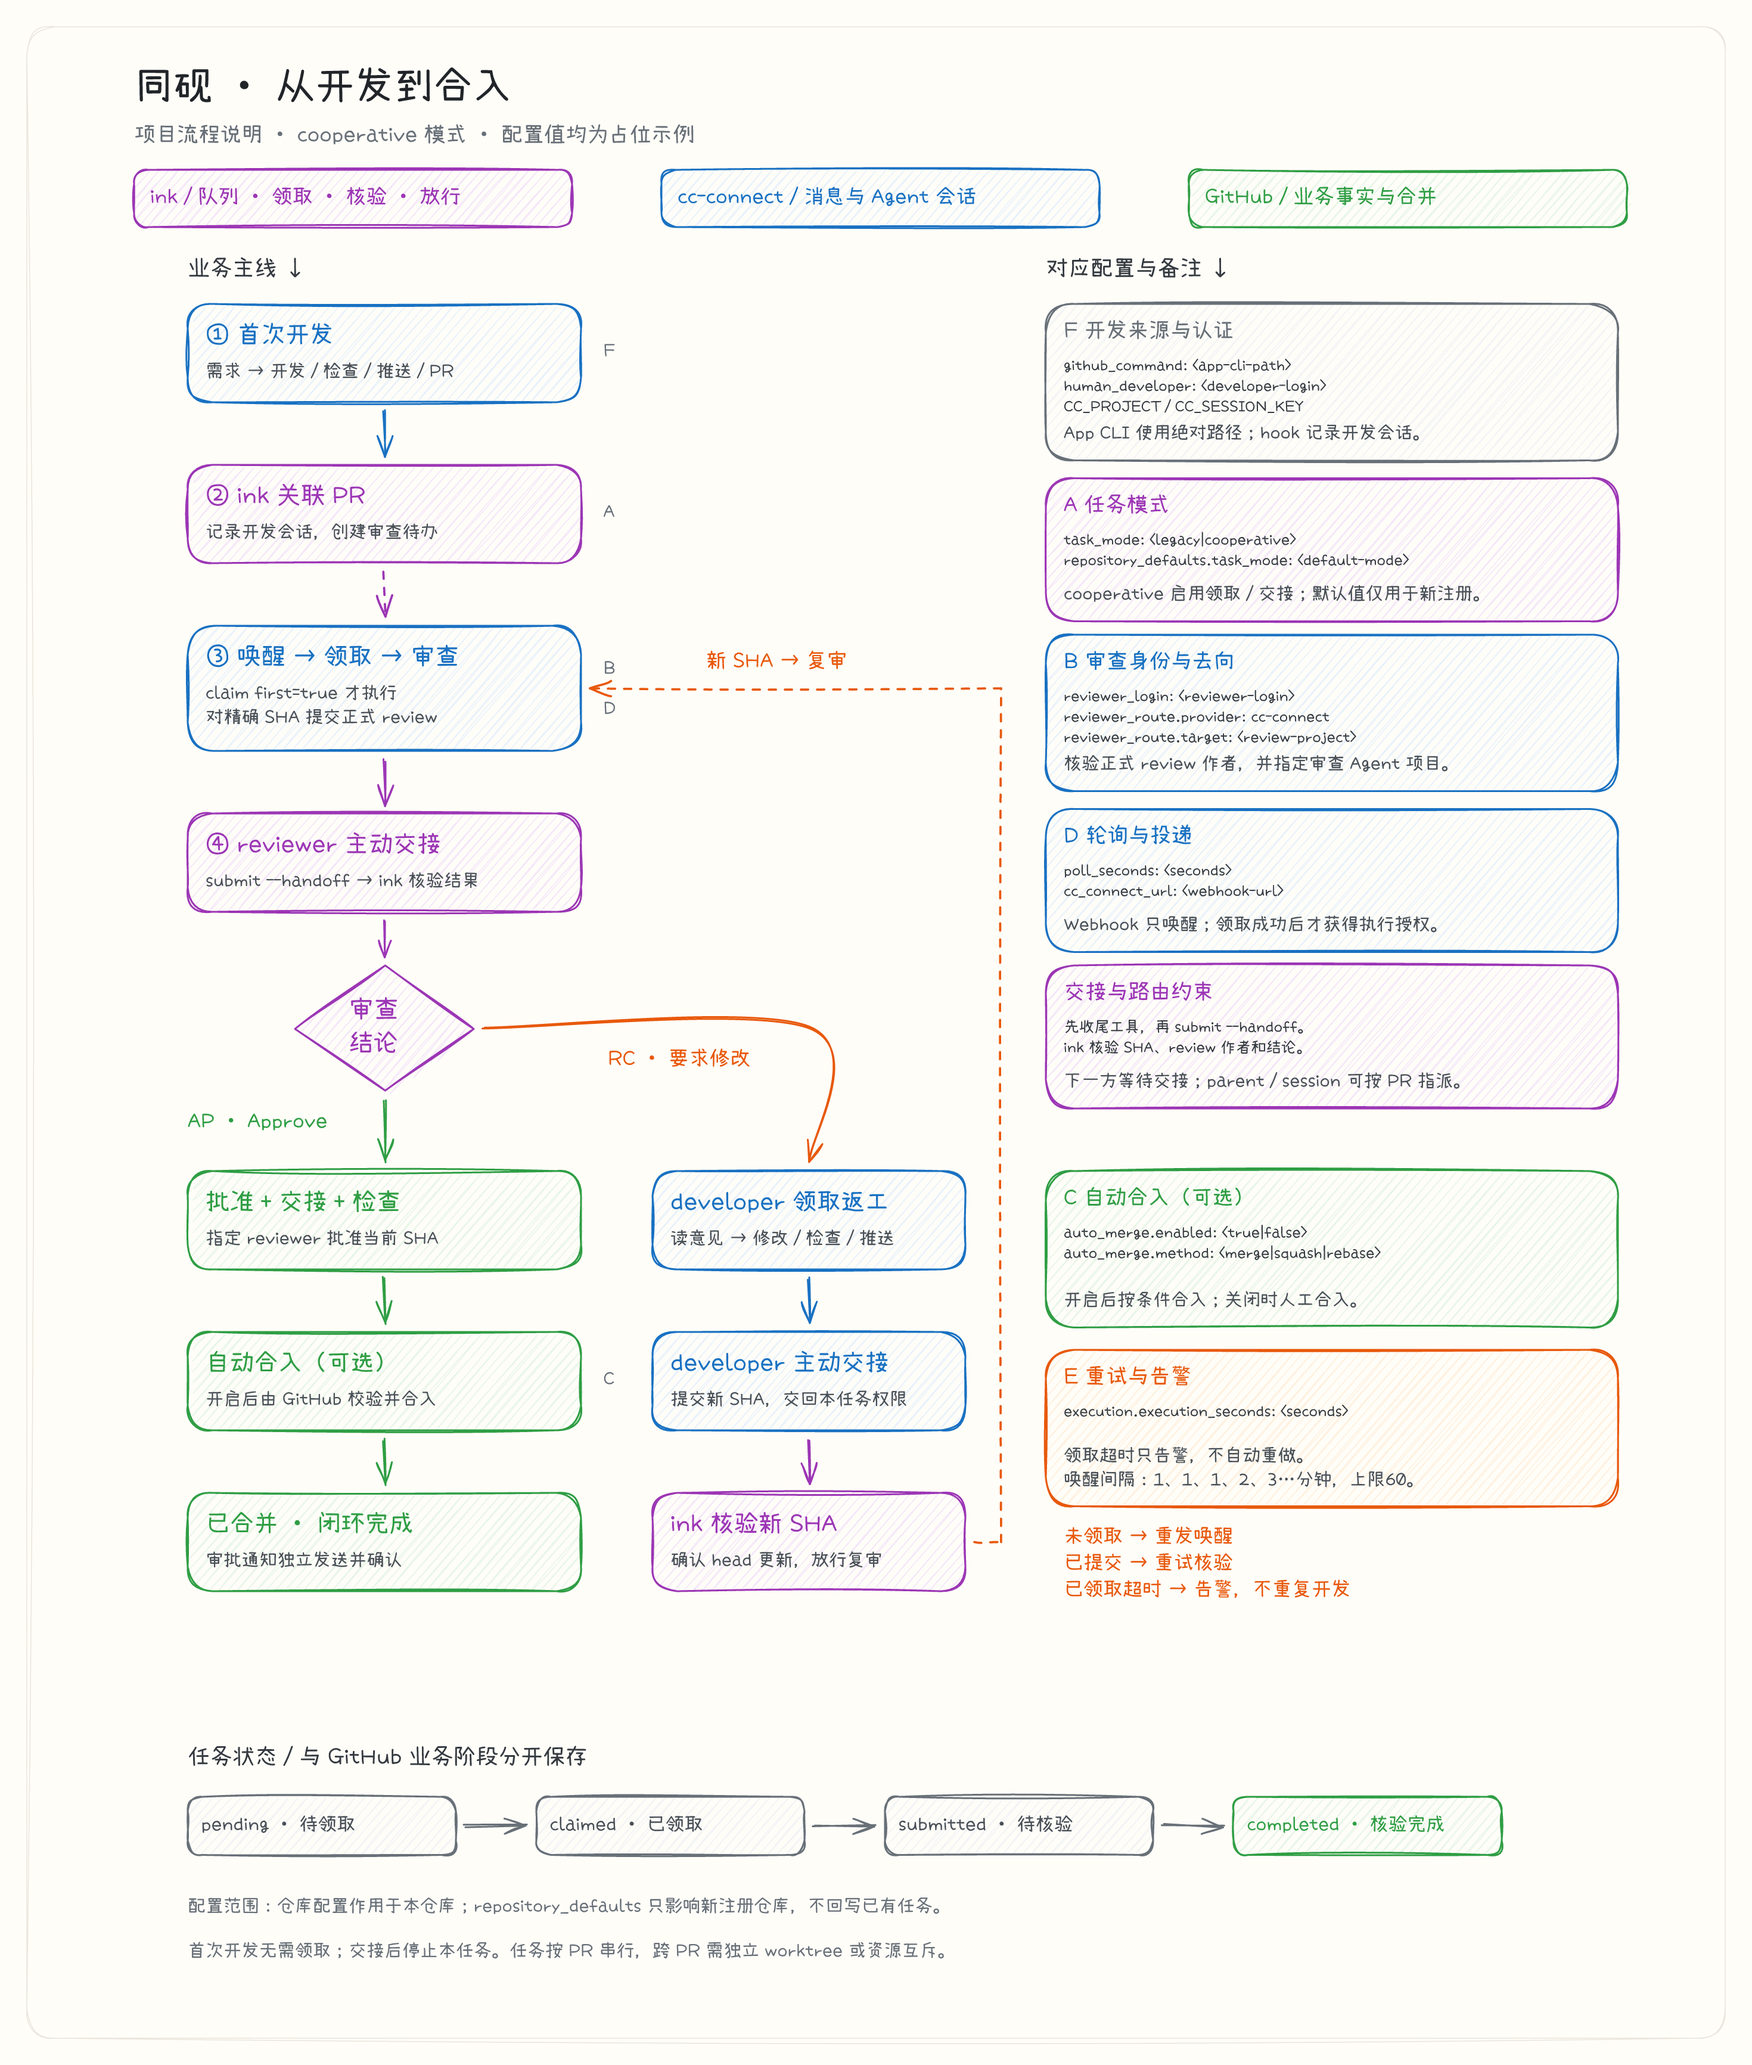
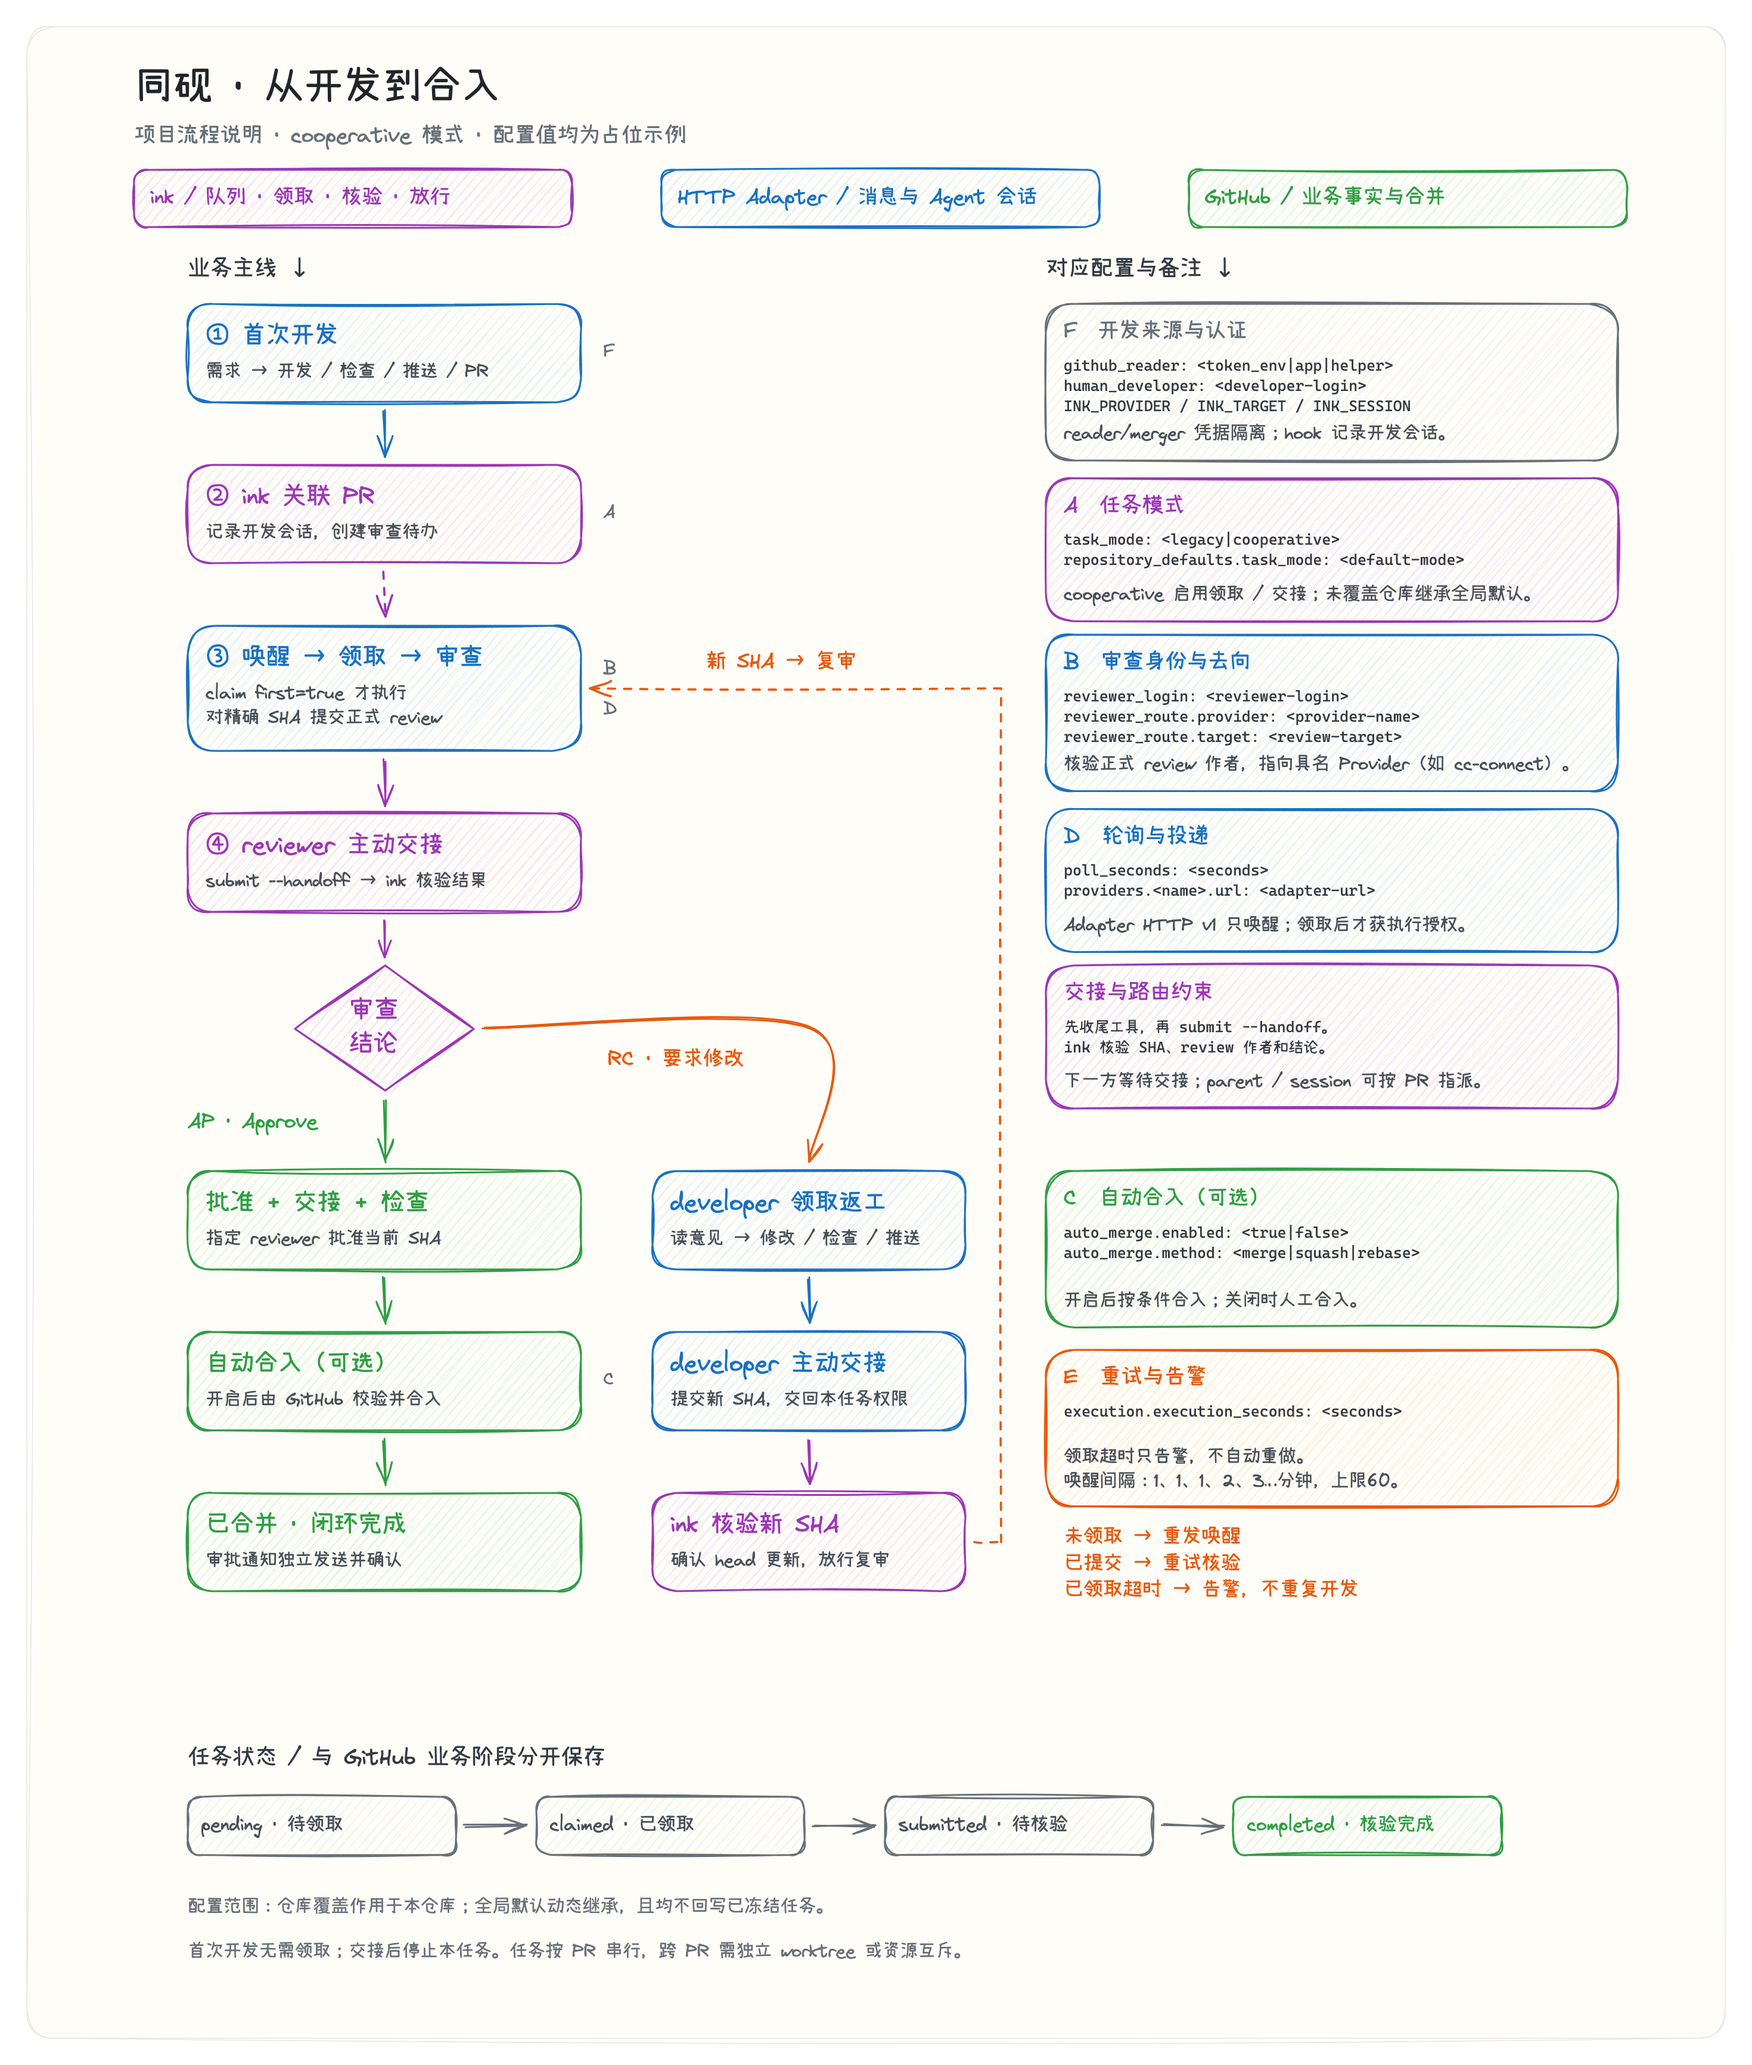
fix: bundle LICENSE in archives, make pre-push hook portable, and refresh workflow diagram

diff --git a/cmd/ink/hook_test.go b/cmd/ink/hook_test.go
@@ -81,3 +81,73 @@ func TestHookStatusMatchesActualGitHubPushURLs(t *testing.T) {
 	git("config", "--add", "remote.origin.pushurl", "https://github.com/acme/upstream.git")
 	status("acme/upstream", "installed")
 }
+
+func TestInstalledHookInvokesInkFromPathAndEnv(t *testing.T) {
+	dir := t.TempDir()
+	if output, err := exec.Command("git", "-C", dir, "init", "-q").CombinedOutput(); err != nil {
+		t.Fatalf("git init: %s %v", output, err)
+	}
+	if err := run([]string{"hook", "install", "--checkout", dir}); err != nil {
+		t.Fatal(err)
+	}
+	hookPath := filepath.Join(dir, ".git", "hooks", "pre-push")
+
+	fakeBinDir := t.TempDir()
+	logFile := filepath.Join(t.TempDir(), "invocations.log")
+	fakeInk := filepath.Join(fakeBinDir, "ink")
+	script := "#!/bin/sh\nprintf '%s|%s\\n' \"$*\" \"$(cat)\" >> " + logFile + "\n"
+	if err := os.WriteFile(fakeInk, []byte(script), 0700); err != nil {
+		t.Fatal(err)
+	}
+
+	isolatedHome := t.TempDir()
+	runHook := func(env []string, stdin string) {
+		t.Helper()
+		cmd := exec.Command(hookPath, "origin", "https://github.com/acme/project.git")
+		cmd.Env = env
+		cmd.Stdin = strings.NewReader(stdin)
+		if output, err := cmd.CombinedOutput(); err != nil {
+			t.Fatalf("hook execution failed: %s %v", output, err)
+		}
+	}
+
+	// Release-style install: ink available on PATH with an isolated HOME.
+	runHook([]string{
+		"HOME=" + isolatedHome,
+		"PATH=" + fakeBinDir + ":/usr/bin:/bin",
+	}, "refs/heads/main aaaa refs/heads/main bbbb")
+
+	// Source-build install: ink not on PATH, resolved via INK_BIN.
+	sourceBin := filepath.Join(t.TempDir(), "custom-ink")
+	if err := os.WriteFile(sourceBin, []byte(script), 0700); err != nil {
+		t.Fatal(err)
+	}
+	runHook([]string{
+		"HOME=" + isolatedHome,
+		"PATH=/usr/bin:/bin",
+		"INK_BIN=" + sourceBin,
+	}, "refs/heads/feat cccc refs/heads/feat dddd")
+
+	data, err := os.ReadFile(logFile)
+	if err != nil {
+		t.Fatal(err)
+	}
+	lines := strings.Split(strings.TrimSpace(string(data)), "\n")
+	if len(lines) != 2 {
+		t.Fatalf("expected 2 hook invocations, got %d: %q", len(lines), string(data))
+	}
+	if lines[0] != "pre-push https://github.com/acme/project.git|refs/heads/main aaaa refs/heads/main bbbb" {
+		t.Fatalf("unexpected PATH invocation: %q", lines[0])
+	}
+	if lines[1] != "pre-push https://github.com/acme/project.git|refs/heads/feat cccc refs/heads/feat dddd" {
+		t.Fatalf("unexpected INK_BIN invocation: %q", lines[1])
+	}
+
+	// Legacy hook installations remain recognized as installed.
+	if err := os.WriteFile(hookPath, []byte(legacyPrePushHook), 0700); err != nil {
+		t.Fatal(err)
+	}
+	if status, err := hookStatus(hookPath); status != "installed" || err != nil {
+		t.Fatalf("legacy hook status = %q, %v; want installed", status, err)
+	}
+}

diff --git a/cmd/ink/hook.go b/cmd/ink/hook.go
@@ -17,6 +17,19 @@ import (
 
 const prePushHook = `#!/bin/sh
 if [ "$#" -ge 2 ]; then
+  if [ -n "${INK_BIN:-}" ]; then
+    "$INK_BIN" pre-push "$2"
+  elif command -v ink >/dev/null 2>&1; then
+    ink pre-push "$2"
+  elif [ -x "$HOME/.local/lib/ink-commons/ink" ]; then
+    "$HOME/.local/lib/ink-commons/ink" pre-push "$2"
+  fi
+fi
+exit 0
+`
+
+const legacyPrePushHook = `#!/bin/sh
+if [ "$#" -ge 2 ]; then
   "$HOME/.local/lib/ink-commons/ink" pre-push "$2"
 fi
 exit 0
@@ -116,7 +129,7 @@ func hookStatus(path string) (string, error) {
 	if err != nil {
 		return "", err
 	}
-	if bytes.Equal(content, []byte(prePushHook)) {
+	if bytes.Equal(content, []byte(prePushHook)) || bytes.Equal(content, []byte(legacyPrePushHook)) {
 		return "installed", nil
 	}
 	return "unmanaged", nil

diff --git a/docs/deployment.md b/docs/deployment.md
@@ -127,7 +127,13 @@ ink hook install --checkout /path/to/checkout
 ink hook status --checkout /path/to/checkout
 ```
 
-When running from a source build or wrapping an existing `pre-push` hook, buffer stdin so both hooks receive the ref updates and preserve the existing hook's exit code:
+The installed hook resolves the `ink` binary in this order:
+
+1. `INK_BIN` (if set in the Git push environment—use this for source builds such as `INK_BIN=/absolute/path/to/bin/ink git push`, or add `bin/` to `PATH`).
+2. `ink` on `PATH` (for example `/usr/local/bin/ink` from a release installation).
+3. `$HOME/.local/lib/ink-commons/ink` (fallback for user-local installations).
+
+You can also install [`scripts/ink-pre-push`](../scripts/ink-pre-push) directly as an executable `pre-push` hook at `$(git rev-parse --git-path hooks/pre-push)`. When wrapping an existing `pre-push` hook, buffer stdin so both hooks receive the ref updates and preserve the existing hook's exit code:
 
 ```sh
 updates=$(mktemp) || exit 1

diff --git a/docs/README.md b/docs/README.md
@@ -34,4 +34,4 @@ The [cooperative workflow diagram](diagrams/cooperative-workflow.png) illustrate
 - Rendered PNG: [`diagrams/cooperative-workflow.png`](diagrams/cooperative-workflow.png)
 - Editable Excalidraw source: [`diagrams/cooperative-workflow.excalidraw`](diagrams/cooperative-workflow.excalidraw)
 
-> Note: The diagram's right-hand callouts use placeholder values; for current v0.1 configuration keys (`providers.<name>.url`, `github_reader` / `github_merger`, `INK_PROVIDER` / `INK_TARGET` / `INK_SESSION`), refer to [`config.example.json`](../config.example.json) and [Centralized Configuration](configuration.md).
+> Note: All configuration values in the diagram are placeholders; see [`config.example.json`](../config.example.json) and [Centralized Configuration](configuration.md) for the complete schema and policy rules.
